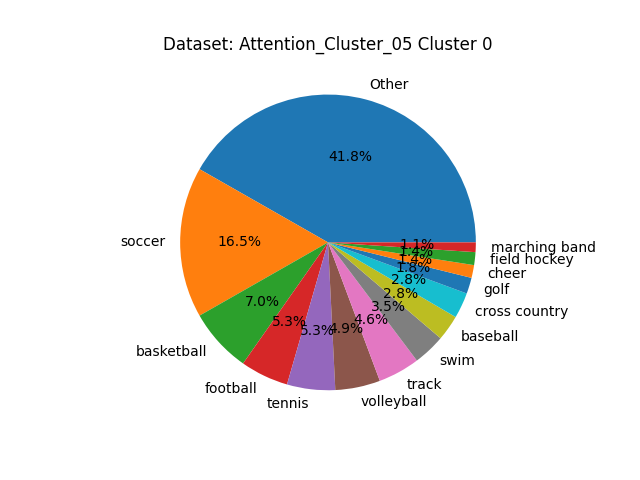
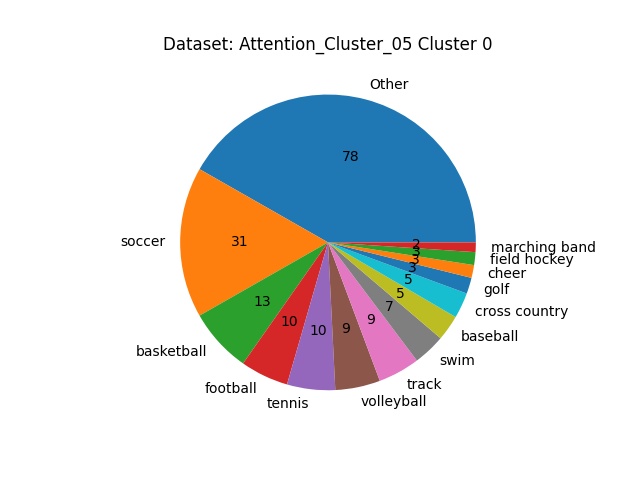
Improved Pie Charts

Changed region(s): [[0.4062, 0.5, 0.6875, 0.7188], [0.3438, 0.4688, 0.4062, 0.5312], [0.5, 0.3125, 0.5938, 0.3438]]

diff --git a/PlotGen.py b/PlotGen.py
@@ -53,7 +53,7 @@ plt.savefig("./Plots/Dustins/ClusterConcussions.png")
 
 """
     Sports Clusters Pie Chart
-"""
+
 
 def get_sport(sport_jstring: str) -> str:
     if sport_jstring != ' ':
@@ -70,6 +70,12 @@ columns = ["Sleep_Cluster_01", "Attention_Cluster_05"]
 #print(df.columns)
 
 
+def make_autopct(values):
+    def my_autopct(pct):
+        total = sum(values)
+        count = int(round(pct * total / 100.0))
+        return f'{count}'
+    return my_autopct
 
 for cIndex, column in enumerate(columns):
     
@@ -80,7 +86,9 @@ for cIndex, column in enumerate(columns):
         df_temp = df[df[column] == clusterIndex]
         counts = df_temp["Sport"].value_counts()
         df_temp["Sport"] = df_temp["Sport"].apply(lambda x: x if x in counts and counts[x] >= 3 else "Other")
-        plt.pie(df_temp["Sport"].value_counts(), labels=df_temp["Sport"].value_counts().index, autopct='%1.1f%%')
+        plt.pie(df_temp["Sport"].value_counts(), labels=df_temp["Sport"].value_counts().index, autopct=make_autopct(counts.values))
         plt.title(f"Dataset: {column} Cluster {clusterIndex}")
         plt.savefig(f"./Plots/Dustins/Pie{column}_cluster_{clusterIndex}.png")
         plt.clf()
+
+"""
